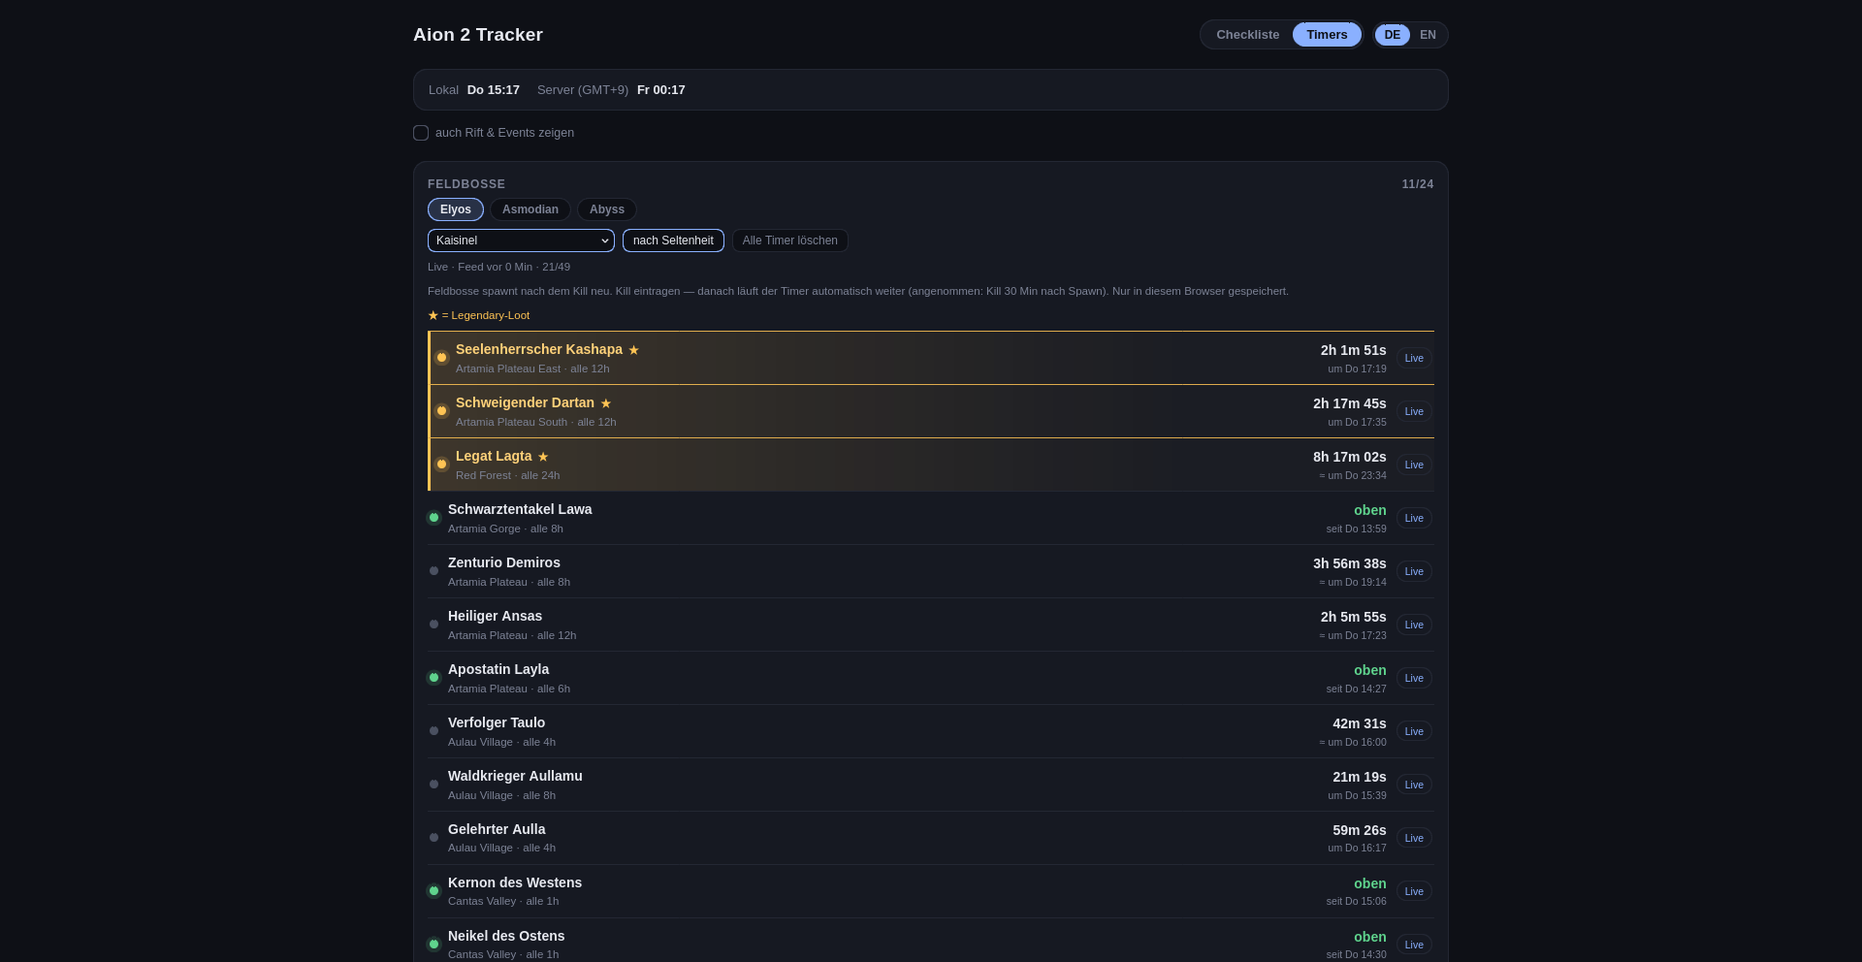
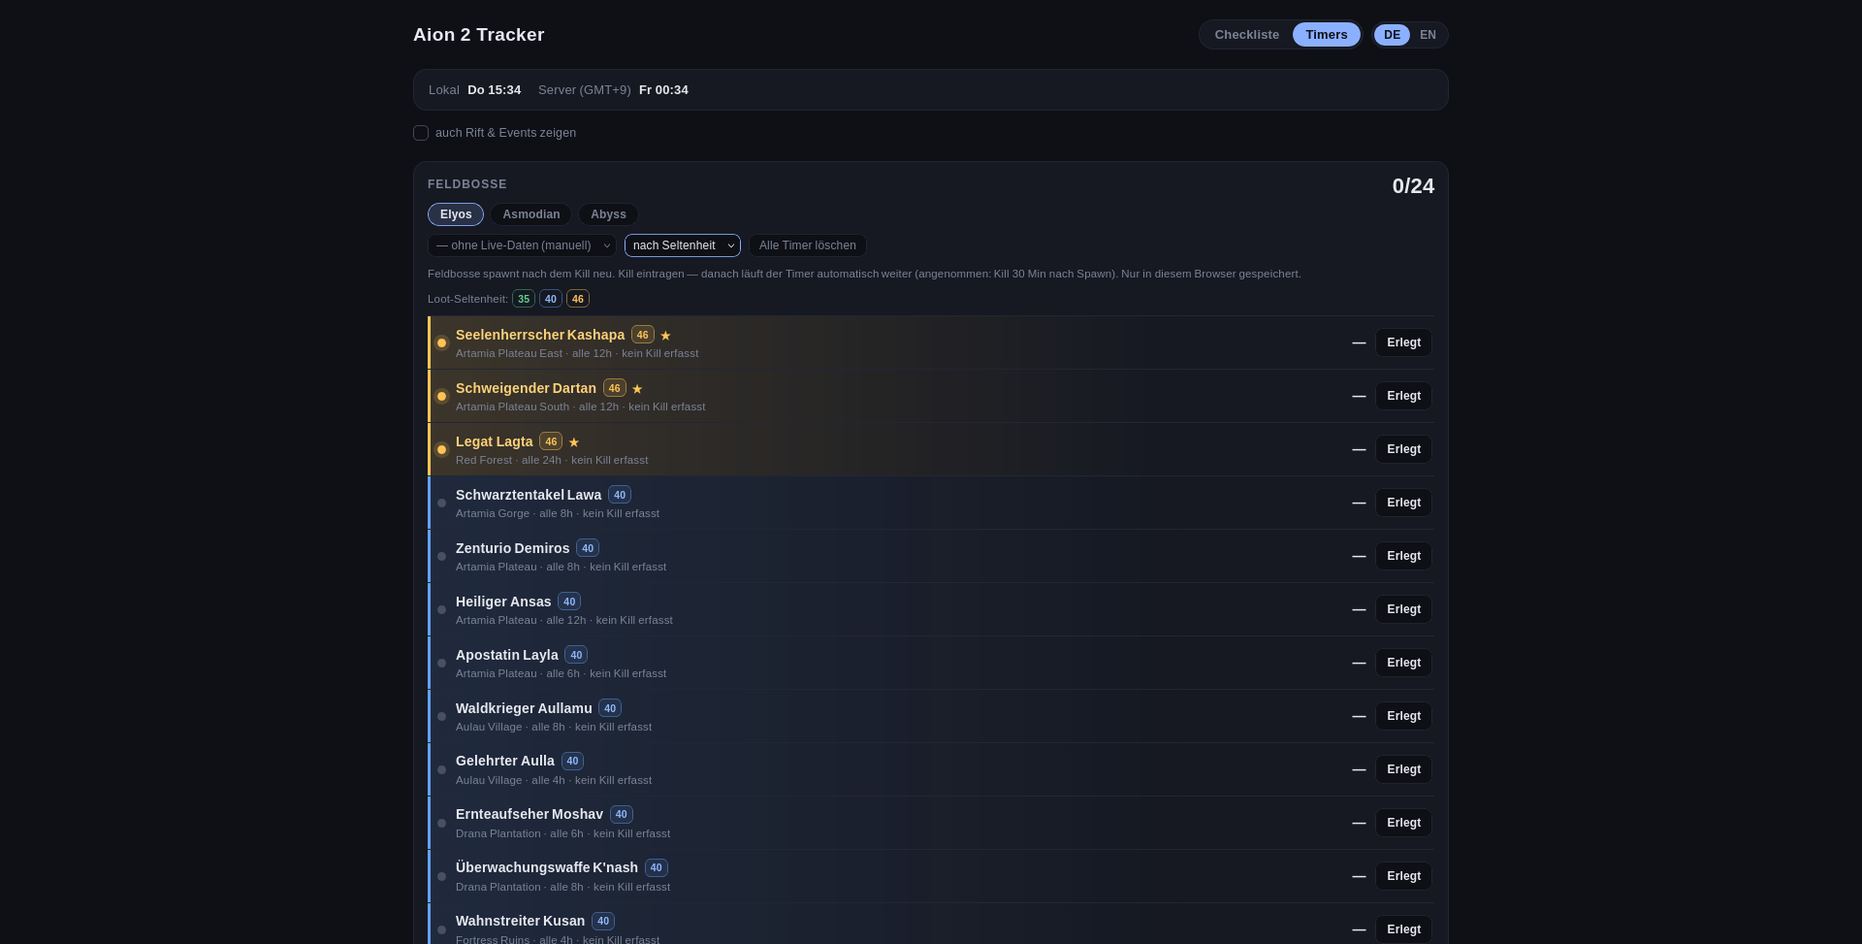
Sort dropdown, 3-tier loot rarity, larger boss count, GitHub footer
- replace the cycling sort button with a dropdown like the server picker
  (by zone / by respawn / by rarity), rebuilt on language change
- three loot-rarity tiers taken from the community table: green 35, blue 40,
  gold 46. Each boss gets a colour-coded badge, a coloured row edge and a
  legend above the list; tiers are mirrored onto the asmodian bosses by index
- boss count back to its original large size (~22px) but pinned to the right
- small GitHub icon centred at the very bottom linking to the repo
- fix: rank lookup used 'ord[r] || 3', so gold's rank 0 was falsy and gold
  sorted last instead of first

diff --git a/index.html b/index.html
@@ -66,6 +66,8 @@
   main{display:grid;grid-template-columns:repeat(auto-fit,minmax(300px,1fr));gap:14px;margin-top:10px}
   section{background:var(--card);border:1px solid var(--line);border-radius:14px;padding:14px 14px 6px}
   section h2,.tsec h2{margin:0 0 8px;font-size:12px;text-transform:uppercase;letter-spacing:.8px;color:var(--dim);display:flex;justify-content:space-between;gap:10px;font-weight:600}
+  /* the boss count keeps its original large size, but stays pinned right */
+  #tFieldCount{font-size:22px;font-weight:650;letter-spacing:0;text-transform:none;color:var(--txt);font-variant-numeric:tabular-nums;line-height:1}
   .bar{height:3px;background:var(--line);border-radius:2px;margin-bottom:4px;overflow:hidden}
   .bar i{display:block;height:100%;background:var(--ok);transition:width .25s}
   .item{border-top:1px solid var(--line);padding:10px 2px}
@@ -141,7 +143,15 @@
   .fblive{font-size:10.5px;color:var(--acc);border:1px solid var(--line);border-radius:999px;padding:2px 8px;white-space:nowrap}
   .ffeed{font-size:11.5px;color:var(--dim);margin:0 0 8px;font-variant-numeric:tabular-nums}
   .ffeed.warn{color:#ffb4a2}
-  .fleg{font-size:11.5px;color:#ffc454;margin:0 0 8px}
+  .fleg{font-size:11.5px;color:var(--dim);margin:0 0 8px}
+  .frq{display:inline-block;min-width:20px;text-align:center;margin:0 2px;padding:1px 5px;border-radius:6px;font-weight:700;font-size:10.5px}
+  .frq.g{color:#5fd38d;border:1px solid rgba(95,211,141,.45)}
+  .frq.b{color:#8fbaff;border:1px solid rgba(101,161,255,.45)}
+  .frq.y{color:#ffc454;border:1px solid rgba(255,196,84,.5)}
+  .pagefoot{display:flex;justify-content:center;margin:24px 0 8px}
+  .pagefoot a{color:var(--dim);opacity:.6;text-decoration:none}
+  .pagefoot a:hover{color:var(--txt);opacity:1}
+  .pagefoot svg{width:20px;height:20px;display:block;fill:currentColor}
   .fbstar{color:#ffc454;margin-left:6px;font-size:11px}
   .fbzone{color:var(--faint);font-size:10.5px;text-transform:uppercase;letter-spacing:.7px;
     margin:10px 0 2px;font-weight:700}
@@ -158,13 +168,18 @@
   .fbcard.soon .fbcd{color:var(--warn)}
   .fbcard.dead .fbcd{color:var(--txt)}
   /* legendary loot bosses: Dartan / Kashapa / Lagta */
-  .fbcard.leg{border-top-color:rgba(255,196,84,.85);padding-left:10px;
-    background:linear-gradient(90deg,rgba(255,196,84,.17),rgba(255,196,84,.02) 75%);
-    box-shadow:inset 3px 0 0 #ffc454}
-  .fbcard.leg .fbnm{color:#ffd27a}
-  .fbcard.leg .fbstate,
-  .fbcard.leg.up .fbstate,
-  .fbcard.leg.dead .fbstate{background:#ffc454;box-shadow:0 0 0 4px rgba(255,196,84,.18)}
+  /* loot rarity tiers: green 35 / blue 40 / gold 46 */
+  .fbcard.rg{background:linear-gradient(90deg,rgba(95,211,141,.10),transparent 72%);box-shadow:inset 3px 0 0 #5fd38d;padding-left:10px}
+  .fbcard.rb{background:linear-gradient(90deg,rgba(101,161,255,.12),transparent 72%);box-shadow:inset 3px 0 0 #65a1ff;padding-left:10px}
+  .fbcard.ry{background:linear-gradient(90deg,rgba(255,196,84,.16),transparent 72%);box-shadow:inset 3px 0 0 #ffc454;padding-left:10px}
+  .fbcard.ry .fbnm{color:#ffd27a}
+  .fbcard.ry .fbstate,.fbcard.ry.up .fbstate,.fbcard.ry.dead .fbstate{background:#ffc454;box-shadow:0 0 0 4px rgba(255,196,84,.18)}
+  .fbrar{display:inline-block;min-width:22px;text-align:center;margin-left:7px;padding:1px 5px;
+    border-radius:6px;font-size:10.5px;font-weight:700;font-variant-numeric:tabular-nums;
+    border:1px solid transparent;vertical-align:1px}
+  .fbrar.g{color:#5fd38d;border-color:rgba(95,211,141,.45);background:rgba(95,211,141,.10)}
+  .fbrar.b{color:#8fbaff;border-color:rgba(101,161,255,.45);background:rgba(101,161,255,.10)}
+  .fbrar.y{color:#ffc454;border-color:rgba(255,196,84,.5);background:rgba(255,196,84,.12)}
   .fbact{display:flex;gap:4px}
   .fbact button{width:30px;height:30px;border-radius:8px;border:1px solid var(--line);
     background:var(--bg);color:var(--dim);cursor:pointer;display:inline-flex;align-items:center;
@@ -236,17 +251,18 @@
     <div class="factions" id="factions"></div>
     <div class="fbtools">
       <select id="fSrv"></select>
-      <button id="fSort" data-i="tSortNext"></button>
+      <select id="fSort"></select>
       <button id="fClear" data-i="tClrAll"></button>
     </div>
     <div class="ffeed" id="fFeed"></div>
     <div class="fhint" data-i="tFHint"></div>
-    <div class="fleg" data-i="tLegNote"></div>
+    <div class="fleg" id="fLeg"></div>
     <div id="tField"></div>
   </div>
   <div class="tfoot"><span data-i="tFoot"></span> <a href="https://www.aion2timers.com/world-boss-timer/" target="_blank" rel="noopener">aion2timers.com</a></div>
 </div>
 </div>
+<div class="pagefoot"><a href="https://github.com/MythosOfs/aion2-tracker" target="_blank" rel="noopener" aria-label="GitHub repository" title="GitHub"><svg viewBox="0 0 16 16" aria-hidden="true"><path d="M8 0C3.58 0 0 3.58 0 8c0 3.54 2.29 6.53 5.47 7.59.4.07.55-.17.55-.38 0-.19-.01-.82-.01-1.49-2.01.37-2.53-.49-2.69-.94-.09-.23-.48-.94-.82-1.13-.28-.15-.68-.52-.01-.53.63-.01 1.08.58 1.23.82.72 1.21 1.87.87 2.33.66.07-.52.28-.87.51-1.07-1.78-.2-3.64-.89-3.64-3.95 0-.87.31-1.59.82-2.15-.08-.2-.36-1.02.08-2.12 0 0 .67-.21 2.2.82.64-.18 1.32-.27 2-.27s1.36.09 2 .27c1.53-1.04 2.2-.82 2.2-.82.44 1.1.16 1.92.08 2.12.51.56.82 1.27.82 2.15 0 3.07-1.87 3.75-3.65 3.95.29.25.54.73.54 1.48 0 1.07-.01 1.93-.01 2.2 0 .21.15.46.55.38A8.01 8.01 0 0 0 16 8c0-4.42-3.58-8-8-8z"/></svg></a></div>
 
 <script>
 const UI = {
@@ -268,7 +284,7 @@ const UI = {
       tKill:"Erlegt", tClr:"Timer löschen", tClrAll:"Alle Timer löschen", tNoKill:"kein Kill erfasst",
       tEvery:"alle", tFUp:"oben", tFSoon:"spawnt in", tSortZone:"nach Zone", tSortNext:"nach Respawn",
       tSrvOff:"— ohne Live-Daten (manuell)", tSince:"seit", tLive:"Live", tFeedAge:"Feed vor {n} Min",
-      tSortRar:"nach Seltenheit", tLegNote:"\u2605 = Legendary-Loot",
+      tSortRar:"nach Seltenheit", tRar:"Loot-Seltenheit", tGear:"Gear-Stufe",
       tFeedErr:"Live-Feed nicht erreichbar — manuelle Timer", tEst:"geschätzt",
       tFoot:"Feldboss-Daten aus Community-Quellen (aion2timers.com) · Respawn-Zyklen können sich mit Patches ändern. Quelle:"},
   en:{navCl:"Checklist", navTm:"Timers",
@@ -289,7 +305,7 @@ const UI = {
       tKill:"Killed", tClr:"Clear timer", tClrAll:"Clear all timers", tNoKill:"no kill logged",
       tEvery:"every", tFUp:"up", tFSoon:"respawns in", tSortZone:"by zone", tSortNext:"by respawn",
       tSrvOff:"— no live data (manual)", tSince:"since", tLive:"Live", tFeedAge:"feed {n} min old",
-      tSortRar:"by rarity", tLegNote:"\u2605 = legendary loot",
+      tSortRar:"by rarity", tRar:"loot rarity", tGear:"gear level",
       tFeedErr:"live feed unreachable — manual timers", tEst:"estimated",
       tFoot:"Field boss data from community sources (aion2timers.com) · respawn cycles can change with patches. Source:"},
 };
@@ -346,55 +362,55 @@ const EXTRA_SCHED = [
 ];
 
 const FIELD_BOSSES = [
-{id:"elyos01",f:"elyos",n:"Kernon of the West",nd:"Kernon des Westens",z:"Cantas Valley",c:60},
-{id:"elyos02",f:"elyos",n:"Neikel of the East",nd:"Neikel des Ostens",z:"Cantas Valley",c:60},
-{id:"elyos03",f:"elyos",n:"Rotten Kutar",nd:"Verfaulter Kutar",z:"Elun River Swamp",c:60},
-{id:"elyos04",f:"elyos",n:"Blooming Korin",nd:"Blühender Korin",z:"Elun River Midstream",c:120},
-{id:"elyos05",f:"elyos",n:"Bodyguard Teegant",nd:"Leibgardist Teegant",z:"Fortress Ruins",c:180},
-{id:"elyos06",f:"elyos",n:"Kusan the Mad Gladiator",nd:"Wahnstreiter Kusan",z:"Fortress Ruins",c:240},
-{id:"elyos07",f:"elyos",n:"Ritualist Garshim",nd:"Erzpriester Garshim",z:"Fortress Ruins",c:240},
-{id:"elyos08",f:"elyos",n:"Bloodfang Pnyn",nd:"Blutzahn Pnyn",z:"Tolbas Forest",c:360},
-{id:"elyos09",f:"elyos",n:"Furious Saursus",nd:"Wütende Saursus",z:"Tolbas Forest",c:360},
-{id:"elyos10",f:"elyos",n:"Scholar Aulla",nd:"Gelehrter Aulla",z:"Aulau Village",c:240},
-{id:"elyos11",f:"elyos",n:"Chaser Taulo",nd:"Verfolger Taulo",z:"Aulau Village",c:240},
-{id:"elyos12",f:"elyos",n:"Forest Warrior Aullamu",nd:"Waldkrieger Aullamu",z:"Aulau Village",c:480},
-{id:"elyos13",f:"elyos",n:"Heretic Layla",nd:"Apostatin Layla",z:"Artamia Plateau",c:360},
-{id:"elyos14",f:"elyos",n:"Black Tentacle Lawa",nd:"Schwarztentakel Lawa",z:"Artamia Gorge",c:480},
-{id:"elyos15",f:"elyos",n:"Centurion Demiros",nd:"Zenturio Demiros",z:"Artamia Plateau",c:480},
-{id:"elyos16",f:"elyos",n:"Divine Ansas",nd:"Heiliger Ansas",z:"Artamia Plateau",c:720},
-{id:"elyos17",f:"elyos",n:"Harvest Manager Moshav",nd:"Ernteaufseher Moshav",z:"Drana Plantation",c:360},
-{id:"elyos18",f:"elyos",n:"Sentinel K'nash",nd:"Überwachungswaffe K'nash",z:"Drana Plantation",c:480},
-{id:"elyos19",f:"elyos",n:"Researcher Setram",nd:"Forscher Setram",z:"Nahid Legion Fortress",c:720},
-{id:"elyos20",f:"elyos",n:"Phantasm Kasia",nd:"Traumtrug Kasia",z:"Garden of the Illusion God",c:720},
-{id:"elyos21",f:"elyos",n:"Silent Dartan",nd:"Schweigender Dartan",z:"Artamia Plateau South",c:720 ,l:1},
-{id:"elyos22",f:"elyos",n:"Soul Ruler Kashapa",nd:"Seelenherrscher Kashapa",z:"Artamia Plateau East",c:720 ,l:1},
-{id:"elyos23",f:"elyos",n:"High Commander Lagta",nd:"Legat Lagta",z:"Red Forest",c:1440 ,l:1},
-{id:"elyos24",f:"elyos",n:"Eternal Gartua",nd:"Ewiger Gartua",z:"Isle of Eternity",c:1440},
-{id:"asmo01",f:"asmo",n:"Melted Danar",nd:"Geschmolzener Danar",z:"Dredgion Crash Site",c:60},
-{id:"asmo02",f:"asmo",n:"Black Warrior Aed",nd:"Dunkelkrieger Aed",z:"Nameless Graveyard",c:60},
-{id:"asmo03",f:"asmo",n:"Faithful Rajit",nd:"Treuer Rajit",z:"Sanctuary Watch Post",c:60},
-{id:"asmo04",f:"asmo",n:"Berserker Vargor",nd:"Berserker Vargor",z:"Sanctuary Watch Post",c:120},
-{id:"asmo05",f:"asmo",n:"Blood Warrior Lannar",nd:"Blutkrieger Lannar",z:"Moslan Forest",c:180},
-{id:"asmo06",f:"asmo",n:"Predator Garsan",nd:"Verschlinger Garsan",z:"Moslan Forest",c:240},
-{id:"asmo07",f:"asmo",n:"Deceiver Trid",nd:"Täuscherin Trid",z:"Urtumheim",c:240},
-{id:"asmo08",f:"asmo",n:"Blue Wave Kelpina",nd:"Blauwelle Kelpina",z:"Forest of Purification",c:240},
-{id:"asmo09",f:"asmo",n:"Advisor Resana",nd:"Berater Resana",z:"Dranactus",c:360},
-{id:"asmo10",f:"asmo",n:"High Overseer Nutah",nd:"Hauptaufseher Nutah",z:"Dranactus",c:240},
-{id:"asmo11",f:"asmo",n:"Special Operations Leader Linx",nd:"Sondereinsatzhauptmann Linx",z:"Basfelt Ruins",c:360},
-{id:"asmo12",f:"asmo",n:"Desecrator Newbold",nd:"Schänder Newbold",z:"Basfelt Ruins",c:480},
-{id:"asmo13",f:"asmo",n:"Specter Archon Axios",nd:"Schattenarchon Axios",z:"Basfelt Ruins",c:480},
-{id:"asmo14",f:"asmo",n:"Addicted Hardirun",nd:"Vergifteter Hadirun",z:"Pafnite Burial Ground",c:360},
-{id:"asmo15",f:"asmo",n:"Executioner Barthien",nd:"Henker Barthien",z:"Gribade Canyon West",c:480},
-{id:"asmo16",f:"asmo",n:"Drakan Battalion Weapon Guruta",nd:"Bataillonswaffe Guruta (Drakan)",z:"Gribade Canyon East",c:720},
-{id:"asmo17",f:"asmo",n:"Veteran Shujakan",nd:"Veteran Shujakan",z:"Black Claw Village",c:360},
-{id:"asmo18",f:"asmo",n:"Visionary Karuka",nd:"Visionärer Karuka",z:"Black Claw Village",c:480},
-{id:"asmo19",f:"asmo",n:"Dark Shadow Vishwada",nd:"Dunkelschatten Vishwada",z:"Ragta Fortress",c:720},
-{id:"asmo20",f:"asmo",n:"Sharp Shylak",nd:"Scharfer Shylak",z:"Impetusium Plaza",c:720},
-{id:"asmo21",f:"asmo",n:"Silent Dartan",nd:"Schweigender Dartan",z:"Forest of Purification",c:720 ,l:1},
-{id:"asmo22",f:"asmo",n:"Soul Ruler Kashapa",nd:"Seelenherrscher Kashapa",z:"Pafnite Burial Ground",c:720 ,l:1},
-{id:"asmo23",f:"asmo",n:"High Commander Lagta",nd:"Legat Lagta",z:"Ragta Fortress",c:1440 ,l:1},
-{id:"asmo24",f:"asmo",n:"Immortal Gartua",nd:"Unsterblicher Gartua",z:"Isle of Immortality",c:1440},
-{id:"abyss02",f:"abyss",n:"Argo, the Spirit King",nd:"Geisterfürst Agro",z:"Siel's Right Wing (Siel's Wing Islands)",c:1440}
+{id:"elyos01",f:"elyos",n:"Kernon of the West",nd:"Kernon des Westens",z:"Cantas Valley",c:60,r:"g",gl:35},
+{id:"elyos02",f:"elyos",n:"Neikel of the East",nd:"Neikel des Ostens",z:"Cantas Valley",c:60,r:"g",gl:35},
+{id:"elyos03",f:"elyos",n:"Rotten Kutar",nd:"Verfaulter Kutar",z:"Elun River Swamp",c:60,r:"g",gl:35},
+{id:"elyos04",f:"elyos",n:"Blooming Korin",nd:"Blühender Korin",z:"Elun River Midstream",c:120,r:"g",gl:35},
+{id:"elyos05",f:"elyos",n:"Bodyguard Teegant",nd:"Leibgardist Teegant",z:"Fortress Ruins",c:180,r:"g",gl:35},
+{id:"elyos06",f:"elyos",n:"Kusan the Mad Gladiator",nd:"Wahnstreiter Kusan",z:"Fortress Ruins",c:240,r:"b",gl:40},
+{id:"elyos07",f:"elyos",n:"Ritualist Garshim",nd:"Erzpriester Garshim",z:"Fortress Ruins",c:240,r:"b",gl:40},
+{id:"elyos08",f:"elyos",n:"Bloodfang Pnyn",nd:"Blutzahn Pnyn",z:"Tolbas Forest",c:360,r:"b",gl:40},
+{id:"elyos09",f:"elyos",n:"Furious Saursus",nd:"Wütende Saursus",z:"Tolbas Forest",c:360,r:"b",gl:40},
+{id:"elyos10",f:"elyos",n:"Scholar Aulla",nd:"Gelehrter Aulla",z:"Aulau Village",c:240,r:"b",gl:40},
+{id:"elyos11",f:"elyos",n:"Chaser Taulo",nd:"Verfolger Taulo",z:"Aulau Village",c:240,r:"",gl:0},
+{id:"elyos12",f:"elyos",n:"Forest Warrior Aullamu",nd:"Waldkrieger Aullamu",z:"Aulau Village",c:480,r:"b",gl:40},
+{id:"elyos13",f:"elyos",n:"Heretic Layla",nd:"Apostatin Layla",z:"Artamia Plateau",c:360,r:"b",gl:40},
+{id:"elyos14",f:"elyos",n:"Black Tentacle Lawa",nd:"Schwarztentakel Lawa",z:"Artamia Gorge",c:480,r:"b",gl:40},
+{id:"elyos15",f:"elyos",n:"Centurion Demiros",nd:"Zenturio Demiros",z:"Artamia Plateau",c:480,r:"b",gl:40},
+{id:"elyos16",f:"elyos",n:"Divine Ansas",nd:"Heiliger Ansas",z:"Artamia Plateau",c:720,r:"b",gl:40},
+{id:"elyos17",f:"elyos",n:"Harvest Manager Moshav",nd:"Ernteaufseher Moshav",z:"Drana Plantation",c:360,r:"b",gl:40},
+{id:"elyos18",f:"elyos",n:"Sentinel K'nash",nd:"Überwachungswaffe K'nash",z:"Drana Plantation",c:480,r:"b",gl:40},
+{id:"elyos19",f:"elyos",n:"Researcher Setram",nd:"Forscher Setram",z:"Nahid Legion Fortress",c:720,r:"b",gl:40},
+{id:"elyos20",f:"elyos",n:"Phantasm Kasia",nd:"Traumtrug Kasia",z:"Garden of the Illusion God",c:720,r:"b",gl:40},
+{id:"elyos21",f:"elyos",n:"Silent Dartan",nd:"Schweigender Dartan",z:"Artamia Plateau South",c:720,r:"y",gl:46},
+{id:"elyos22",f:"elyos",n:"Soul Ruler Kashapa",nd:"Seelenherrscher Kashapa",z:"Artamia Plateau East",c:720,r:"y",gl:46},
+{id:"elyos23",f:"elyos",n:"High Commander Lagta",nd:"Legat Lagta",z:"Red Forest",c:1440,r:"y",gl:46},
+{id:"elyos24",f:"elyos",n:"Eternal Gartua",nd:"Ewiger Gartua",z:"Isle of Eternity",c:1440,r:"",gl:0},
+{id:"asmo01",f:"asmo",n:"Melted Danar",nd:"Geschmolzener Danar",z:"Dredgion Crash Site",c:60,r:"g",gl:35},
+{id:"asmo02",f:"asmo",n:"Black Warrior Aed",nd:"Dunkelkrieger Aed",z:"Nameless Graveyard",c:60,r:"g",gl:35},
+{id:"asmo03",f:"asmo",n:"Faithful Rajit",nd:"Treuer Rajit",z:"Sanctuary Watch Post",c:60,r:"g",gl:35},
+{id:"asmo04",f:"asmo",n:"Berserker Vargor",nd:"Berserker Vargor",z:"Sanctuary Watch Post",c:120,r:"g",gl:35},
+{id:"asmo05",f:"asmo",n:"Blood Warrior Lannar",nd:"Blutkrieger Lannar",z:"Moslan Forest",c:180,r:"g",gl:35},
+{id:"asmo06",f:"asmo",n:"Predator Garsan",nd:"Verschlinger Garsan",z:"Moslan Forest",c:240,r:"b",gl:40},
+{id:"asmo07",f:"asmo",n:"Deceiver Trid",nd:"Täuscherin Trid",z:"Urtumheim",c:240,r:"b",gl:40},
+{id:"asmo08",f:"asmo",n:"Blue Wave Kelpina",nd:"Blauwelle Kelpina",z:"Forest of Purification",c:240,r:"b",gl:40},
+{id:"asmo09",f:"asmo",n:"Advisor Resana",nd:"Berater Resana",z:"Dranactus",c:360,r:"b",gl:40},
+{id:"asmo10",f:"asmo",n:"High Overseer Nutah",nd:"Hauptaufseher Nutah",z:"Dranactus",c:240,r:"b",gl:40},
+{id:"asmo11",f:"asmo",n:"Special Operations Leader Linx",nd:"Sondereinsatzhauptmann Linx",z:"Basfelt Ruins",c:360,r:"",gl:0},
+{id:"asmo12",f:"asmo",n:"Desecrator Newbold",nd:"Schänder Newbold",z:"Basfelt Ruins",c:480,r:"b",gl:40},
+{id:"asmo13",f:"asmo",n:"Specter Archon Axios",nd:"Schattenarchon Axios",z:"Basfelt Ruins",c:480,r:"b",gl:40},
+{id:"asmo14",f:"asmo",n:"Addicted Hardirun",nd:"Vergifteter Hadirun",z:"Pafnite Burial Ground",c:360,r:"b",gl:40},
+{id:"asmo15",f:"asmo",n:"Executioner Barthien",nd:"Henker Barthien",z:"Gribade Canyon West",c:480,r:"b",gl:40},
+{id:"asmo16",f:"asmo",n:"Drakan Battalion Weapon Guruta",nd:"Bataillonswaffe Guruta (Drakan)",z:"Gribade Canyon East",c:720,r:"b",gl:40},
+{id:"asmo17",f:"asmo",n:"Veteran Shujakan",nd:"Veteran Shujakan",z:"Black Claw Village",c:360,r:"b",gl:40},
+{id:"asmo18",f:"asmo",n:"Visionary Karuka",nd:"Visionärer Karuka",z:"Black Claw Village",c:480,r:"b",gl:40},
+{id:"asmo19",f:"asmo",n:"Dark Shadow Vishwada",nd:"Dunkelschatten Vishwada",z:"Ragta Fortress",c:720,r:"b",gl:40},
+{id:"asmo20",f:"asmo",n:"Sharp Shylak",nd:"Scharfer Shylak",z:"Impetusium Plaza",c:720,r:"b",gl:40},
+{id:"asmo21",f:"asmo",n:"Silent Dartan",nd:"Schweigender Dartan",z:"Forest of Purification",c:720,r:"y",gl:46},
+{id:"asmo22",f:"asmo",n:"Soul Ruler Kashapa",nd:"Seelenherrscher Kashapa",z:"Pafnite Burial Ground",c:720,r:"y",gl:46},
+{id:"asmo23",f:"asmo",n:"High Commander Lagta",nd:"Legat Lagta",z:"Ragta Fortress",c:1440,r:"y",gl:46},
+{id:"asmo24",f:"asmo",n:"Immortal Gartua",nd:"Unsterblicher Gartua",z:"Isle of Immortality",c:1440,r:"",gl:0},
+{id:"abyss02",f:"abyss",n:"Argo, the Spirit King",nd:"Geisterfürst Agro",z:"Siel's Right Wing (Siel's Wing Islands)",c:1440,r:"",gl:0}
 ]
 
 const SVG = d => `<svg viewBox="0 0 16 16" width="14" height="14" fill="none" stroke="currentColor" stroke-width="2" stroke-linecap="round" aria-hidden="true"><path d="${d}"/></svg>`;
@@ -777,7 +793,7 @@ function renderFactions(){
 const fbName = b => st.lang==="en" ? b.n : (b.nd||b.n);
 function fbView(b){
   const u=T(), s=fbState(b);
-  const cls = (!s.known ? "" : (s.up ? "up" : "dead")) + (b.l ? " leg" : "");
+  const cls = (!s.known ? "" : (s.up ? "up" : "dead")) + (b.r ? " r"+b.r : "");
   let cd="—", sub="";
   if (s.known){
     if (s.up){ cd=u.tFUp; sub=(s.live?u.tSince:u.tUntil)+" "+fmtClock(new Date(s.until)); }
@@ -789,14 +805,15 @@ function fbView(b){
 function fbCard(b){
   const {u,s,cls,cd,sub}=fbView(b);
   const meta = esc(b.z)+" · "+esc(u.tEvery)+" "+fmtCycle(b.c)+(s.known?"":" · "+esc(u.tNoKill));
-  const star = b.l ? `<span class="fbstar">\u2605</span>` : "";
+  const star = b.r==="y" ? `<span class="fbstar">\u2605</span>` : "";
+  const rar  = b.r ? `<span class="fbrar ${b.r}" title="${esc(u.tGear)} ${b.gl}">${b.gl}</span>` : "";
   const act = s.live
     ? `<span class="fblive">${esc(u.tLive)}</span>`
     : `<button class="kill" data-act="kill">${esc(u.tKill)}</button>`+
       (s.known?`<button class="clr" data-act="clr" title="${esc(u.tClr)}">${ICON.x}</button>`:"");
   return `<div class="fbcard ${cls}" data-id="${b.id}">
     <span class="fbstate"></span>
-    <div><div class="fbnm">${esc(fbName(b))}${star}</div><div class="fbmeta">${meta}</div></div>
+    <div><div class="fbnm">${esc(fbName(b))}${rar}${star}</div><div class="fbmeta">${meta}</div></div>
     <div><div class="fbcd">${esc(cd)}</div><div class="fbsub">${sub}</div></div>
     <div class="fbact">${act}</div>
   </div>`;
@@ -805,9 +822,8 @@ function renderField(){
   const u=T();
   renderSrv();
   renderFactions();
-  const sortBtn=document.getElementById("fSort");
-  sortBtn.textContent = st.fsort==="next" ? u.tSortNext : (st.fsort==="rar" ? u.tSortRar : u.tSortZone);
-  sortBtn.classList.toggle("on", st.fsort!=="zone");
+  renderSort();
+  renderLeg();
   let list = FIELD_BOSSES.filter(b=>b.f===st.faction);
   document.getElementById("tFieldCount").textContent =
     list.filter(b=>fbState(b).up).length+"/"+list.length;
@@ -821,9 +837,11 @@ function renderField(){
     });
     box.innerHTML = list.map(fbCard).join("");
   } else if (st.fsort==="rar"){
+    const ord={y:0,b:1,g:2};                      // gold -> blue -> green -> unranked
+    const rk = t => (t in ord) ? ord[t] : 3;      // note: rank 0 is valid, so no `||`
     list = list.slice().sort((a,b)=>{
-      const la=a.l?0:1, lb=b.l?0:1;
-      if (la!==lb) return la-lb;
+      const d=rk(a.r)-rk(b.r);
+      if (d) return d;
       return a.z.localeCompare(b.z) || a.n.localeCompare(b.n);
     });
     box.innerHTML = list.map(fbCard).join("");
@@ -851,7 +869,22 @@ document.getElementById("tField").addEventListener("click", e=>{
   if (btn.dataset.act==="kill") st.fkills[id]=Date.now(); else delete st.fkills[id];
   save(); renderField();
 });
-document.getElementById("fSort").onclick=()=>{ const o=["zone","next","rar"]; st.fsort = o[(o.indexOf(st.fsort)+1)%3]; save(); renderField(); };
+function renderSort(){
+  const s=document.getElementById("fSort"), u=T();
+  if(s.dataset.lang !== st.lang){          // labels follow the UI language
+    s.innerHTML = [["zone",u.tSortZone],["next",u.tSortNext],["rar",u.tSortRar]]
+      .map(([v,l])=>`<option value="${v}">${esc(l)}</option>`).join("");
+    s.dataset.lang = st.lang;
+  }
+  s.value = st.fsort;
+  s.classList.toggle("on", st.fsort!=="zone");
+}
+function renderLeg(){
+  const el=document.getElementById("fLeg"); if(!el) return; const u=T();
+  el.innerHTML = esc(u.tRar)+": "+[["g",35],["b",40],["y",46]]
+    .map(([k,l])=>`<span class="frq ${k}">${l}</span>`).join("");
+}
+document.getElementById("fSort").onchange=e=>{ st.fsort=e.target.value; save(); renderField(); };
 document.getElementById("fClear").onclick=()=>{ st.fkills={}; save(); renderField(); };
 
 /* ---- live feed plumbing ---- */

diff --git a/README.md b/README.md
@@ -19,8 +19,8 @@ No build step, no server, no external requests. Open `index.html` in a browser (
 - **Field bosses** — all 49 (24 Elyos, 24 Asmodian, 1 Abyss), grouped by zone
 - **Live mode:** pick your server and the timers come from a community kill feed — real `up`/`dead` state with actual spawn timestamps for every boss on that server, refreshed every 60 s. Values the feed is still estimating are marked `≈`
 - **Manual mode:** with no server selected, tap **Killed** when you kill one; the timer then keeps rolling on its own (assumes a kill 30 min after each spawn) so it stays roughly accurate without further input
-- **Legendary-loot bosses** (Silent Dartan, Soul Ruler Kashapa, High Commander Lagta) are highlighted with a gold bar, gold name and a star
-- Filter by faction, sort by zone, by next respawn, or **by rarity**
+- **Loot rarity tiers** — every boss carries its gear level, colour-coded: green 35, blue 40, gold 46 (the three gold bosses are Dartan, Kashapa and Lagta). Shown as a badge next to the name, a coloured edge on the row, and a legend above the list
+- Filter by faction; sort via a dropdown — by zone, by next respawn, or **by rarity** (gold → blue → green → unranked)
 - Full German boss names and German region labels in the DE locale (English zone names are kept as-is — AION 2 is English-only and the community German translation does not rename zones)
 - Clear all manual timers at once
 - Optional panel for other timed events (Spacetime Rift, Shugo Festival, Dimensional Invasion)
